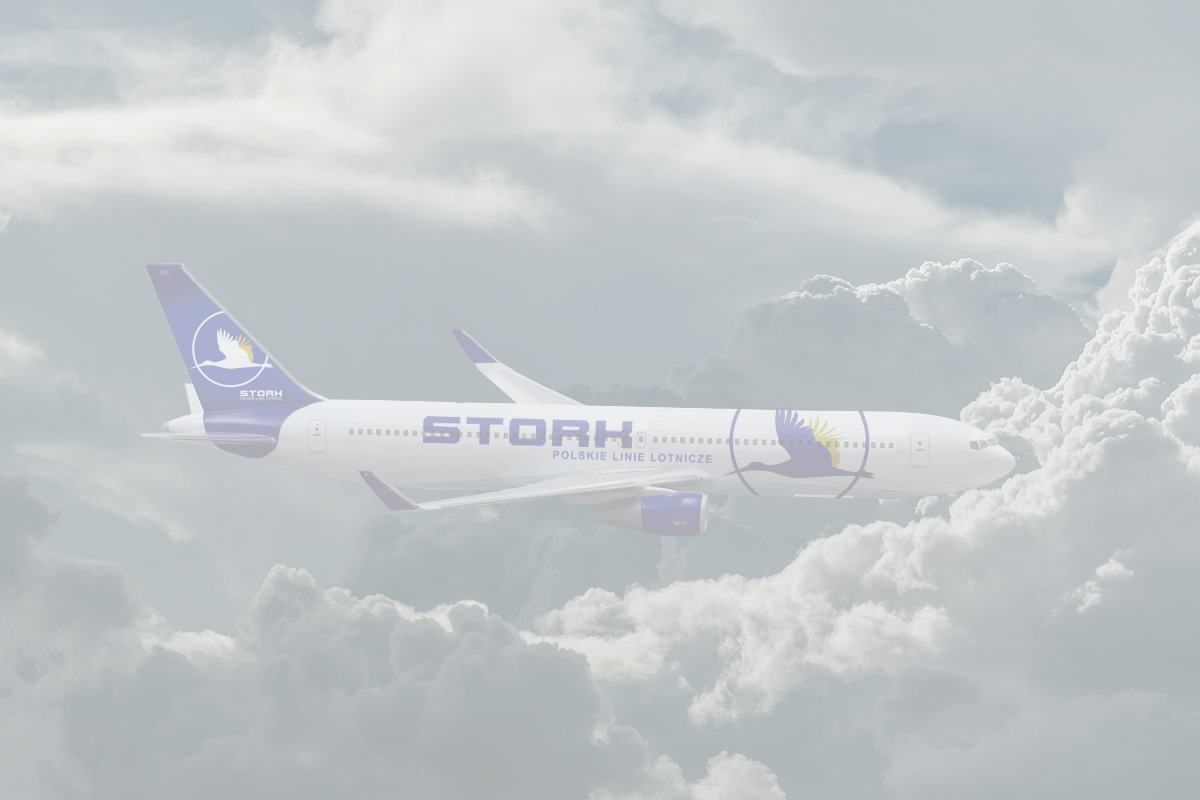
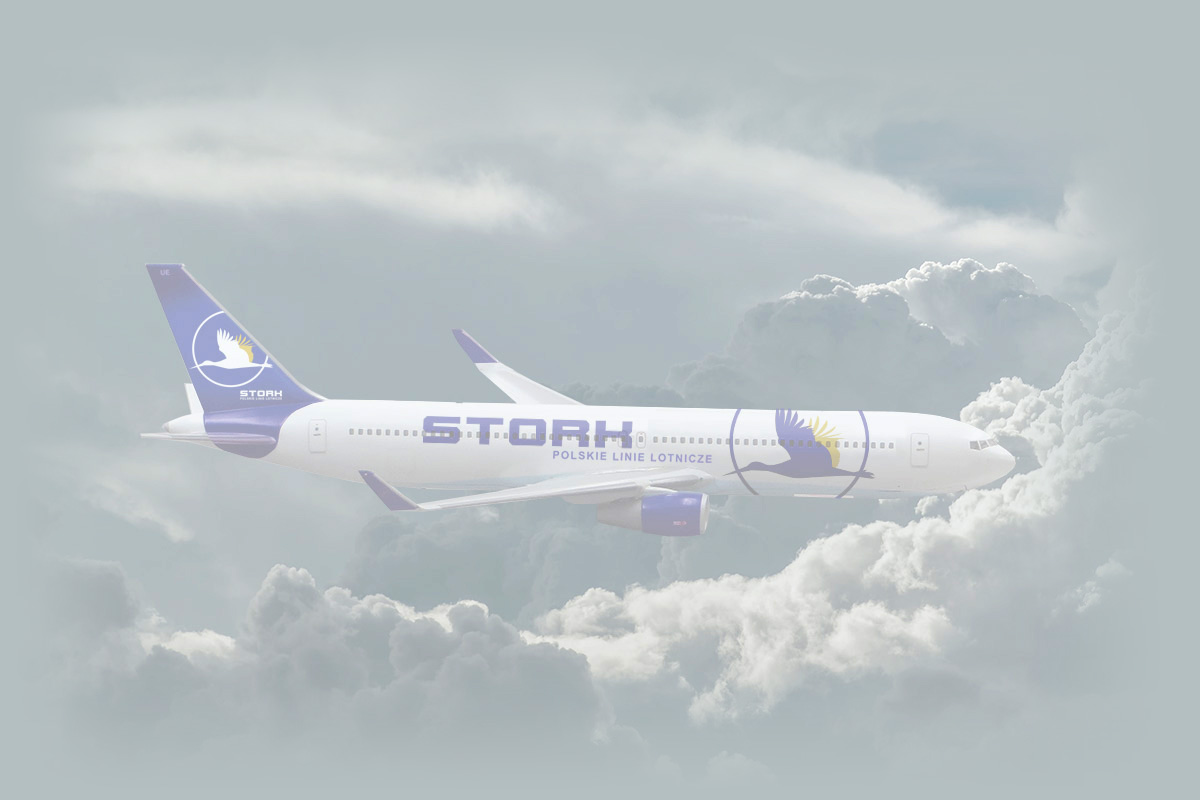
dodanie małych poprawek

diff --git a/css/common.min.css b/css/common.min.css
@@ -1,1 +1,1 @@
-html{scroll-behavior:smooth !important}body{font-family:'Montserrat', sans-serif}.btm-md-clr{padding:25px 0}.text-light{color:#fff !important}.text-dark{color:navy !important}.text-shadow-dark{text-shadow:2px 2px 15px navy}.text-shadow-light{text-shadow:2px 2px 15px #fff}.form-group{margin:0 0 1rem}.border-3{border:3px solid #fff !important}header{height:100vh;margin-top:-9px;background:#fff url(../images/samolot.svg) no-repeat center center/cover}.card-shadow{box-shadow:1px 1px 10px #000}.heading{position:absolute;top:70%;right:0;font-size:14px;letter-spacing:1px;background:#000;width:70%;cursor:pointer;opacity:.7;transition:all .5s}.heading:hover{opacity:1}@keyframes anim{0%{transform:translateX(-100px);opacity:0}100%{opacity:1}}.promotions{background:url(../images/promotion.jpg) no-repeat fixed;background-size:100% auto;height:auto;color:#ffffff;overflow:hidden;display:flex;flex-wrap:wrap;align-items:center;justify-content:center}.promo-card{position:relative;width:300px;height:450px;margin:1rem 50px}.promo-card .content{overflow:hidden;border-radius:20px;height:100%;background:navy !important}.promo-card .front .image img{display:block}.promo-card .front .title{position:absolute;bottom:0;left:0;right:0;text-align:right;background-image:linear-gradient(to bottom, transparent, rgba(0,0,0,0.7) 50%);padding:40px 20px 20px;font-size:2rem;border-radius:20px}.promo-card .front .author{font-size:0.8rem;opacity:0.6}.promo-card .front,.promo-card .back{overflow:hidden;position:absolute;top:0;left:0;bottom:0;right:0;backface-visibility:hidden;transition:transform 400ms}.promo-card .back .content{background:navy !important;text-align:center}.promo-card .back .title{font-size:2rem;margin-top:20%;font-weight:700;text-transform:uppercase}.promo-card .back .sub-title{font-size:0.8rem;letter-spacing:1px}.promo-card .back .info ul{list-style:none;text-align:left;margin:30px 20px}.promo-card .svg-inline--fa{color:#D4AA00}.promo-card .back .info ul li{margin:10px 0}.promo-card .back .info ul li i{margin-right:10px}.promo-card .front{transform:perspective(900px) rotateY(0deg)}.promo-card .back{transform:perspective(900px) rotateY(180deg)}.promo-card:hover .front{transform:perspective(900px) rotateY(-180deg)}.promo-card:hover .back{transform:perspective(900px) rotateY(0deg)}.banner{height:auto;padding:30vh 0 0 0}.banner-heading{animation-name:anim;animation-duration:2s}.banner-par{animation-duration:2s;animation-delay:.5s;animation-fill-mode:backwards}.airplane img{vertical-align:middle;border-style:none;width:100%;margin:1rem auto 2rem}.text-info{color:#D4AA00}.text-primary{color:#D4AA00}.svg-inline--fa{font-size:inherit;color:navy}.nav-button{background:navy}.nav-logo{max-width:6rem;height:auto}.nav-menu{padding:15px 30px;transition:all .7s;background:linear-gradient(rgba(255,255,255,0.8), #fff)}.menu-item{font-size:13px;letter-spacing:1px;color:navy;transition:color .5s}.btn-secondary{color:#fff;background-color:navy;border:none}.nav-active{color:navy}.nav-active:hover{color:#D4AA00}.navbar-expand-lg .navbar-nav .nav-link{padding-right:.5rem;padding-left:.5rem;color:navy}.line1,.line2,.line3{width:23px;height:3px;margin:5px;transition:all .4s}.change .line1{transform:rotate(-45deg) translate(-5px, 6px)}.change .line2{opacity:0}.change .line3{transform:rotate(45deg) translate(-5px, -6px)}.custom-navbar{padding:5px 30px;background:linear-gradient(rgba(255,255,255,0.8), #fff)}.calendar-box{width:40vw;border-radius:1rem;padding:2rem;margin:2rem auto;color:navy;background:rgba(255,255,255,0.8);box-shadow:0 0 1.5rem #ccc}.select-bar{transform:none;width:100%;height:2.5rem;border:2px solid navy;border-radius:5px}.button{text-transform:none;background:navy;color:#fff;width:100%;height:auto;padding:0.5rem 0;border-radius:5px;border:2px solid navy;font-weight:700}.table-dark{color:#fff;background-color:navy}.mission{background:navy}.white-bg{background:#fff;color:navy !important}.bg-dark{background:navy !important;color:#fff !important}.text-danger{color:#D4AA00 !important}.underline{width:150px;border:3px solid #D4AA00;margin:auto}.fromLeft{animation-name:fromLeft;animation-duration:3s}.fromRight{animation-name:fromRight;animation-duration:3s}.card{z-index:1;margin:15px 0;position:sticky;position:-webkit-sticky;top:8rem;display:flex;justify-content:center;align-items:center;background:rgba(255,255,255,0.8);box-shadow:0 0 6px #000}.card-wrapper{height:auto;width:100%;margin:auto;height:100%}@keyframes fromLeft{0%{transform:translateX(-120px);opacity:0}100%{transform:translateX(0);opacity:1}}@keyframes fromRight{0%{transform:translateX(30px);opacity:0}100%{transform:translateX(0);opacity:1}}.customers{background:navy;color:#fff}.icons{max-width:4rem;height:4rem}@media (min-width: 1024px) and (max-width: 1780px){header{padding:1rem 0;height:auto}.form-group{margin:0 2rem 1rem}.promotions{flex-wrap:nowrap}}@media (min-width: 768px) and (max-width: 1024px){header{padding:1rem 0;height:auto}.calendar-box{margin:0 25px;width:auto}.form-group{margin:0 4rem 1rem}.h1,.h2,.h3,.h4,.h5,.h6,h1,h2,h3,h4,h5,h6{margin-bottom:.5rem;font-size:1.5rem;font-family:inherit;font-weight:700;line-height:1.2;color:inherit}.display-3{font-size:3.5rem}.display-4{font-size:2.5rem}.promo-card{margin:1rem 1rem !important}.calculation-section{display:flex;flex-wrap:wrap;flex-direction:column-reverse}.calculation-section .col-2,.calculation-section .col-6{-ms-flex:0 0 100% !important;flex:0 0 100% !important;max-width:100% !important}.calculation-section .col-8{-ms-flex:0 0 80%;flex:0 0 80%;max-width:80%}.calculation-section .col-3{display:none}.row{width:100%;margin:0}.airplane{vertical-align:middle;border-style:none;width:100%;height:auto;margin-bottom:2rem}}@media (min-width: 320px) and (max-width: 768px){header{padding:1rem 0;height:auto}.h1,.h2,.h3,.h4,.h5,.h6,h1,h2,h3,h4,h5,h6{margin-bottom:.5rem;font-size:1.2rem;font-family:inherit;font-weight:700;line-height:1.2;color:inherit}.display-3{font-size:2.5rem}.display-4{font-size:1.5rem}.calendar-box{margin:0 25px;width:auto}.form-group{margin:0 0 1rem}.lead{font-size:1rem}.promotions{background:none}.p-5{padding:0 !important}.promo-card{position:relative;width:300px;height:450px;margin:1rem 0 1rem}.calculation-section{display:flex;flex-wrap:wrap;flex-direction:column-reverse}.calculation-section .col-2,.calculation-section .col-6{-ms-flex:0 0 100% !important;flex:0 0 100% !important;max-width:100% !important}.calculation-section .col-8{-ms-flex:0 0 80%;flex:0 0 80%;max-width:80%}.calculation-section .col-3{display:none}.row{width:100%;margin:0}.col,.col-1,.col-10,.col-11,.col-12,.col-2,.col-3,.col-4,.col-5,.col-6,.col-7,.col-8,.col-9,.col-auto,.col-lg,.col-lg-1,.col-lg-10,.col-lg-11,.col-lg-12,.col-lg-2,.col-lg-3,.col-lg-4,.col-lg-5,.col-lg-6,.col-lg-7,.col-lg-8,.col-lg-9,.col-lg-auto,.col-md,.col-md-1,.col-md-10,.col-md-11,.col-md-12,.col-md-2,.col-md-3,.col-md-4,.col-md-5,.col-md-6,.col-md-7,.col-md-8,.col-md-9,.col-md-auto,.col-sm,.col-sm-1,.col-sm-10,.col-sm-11,.col-sm-12,.col-sm-2,.col-sm-3,.col-sm-4,.col-sm-5,.col-sm-6,.col-sm-7,.col-sm-8,.col-sm-9,.col-sm-auto,.col-xl,.col-xl-1,.col-xl-10,.col-xl-11,.col-xl-12,.col-xl-2,.col-xl-3,.col-xl-4,.col-xl-5,.col-xl-6,.col-xl-7,.col-xl-8,.col-xl-9,.col-xl-auto{position:relative;-ms-flex:0 0 100% !important;flex:0 0 100% !important;max-width:100% !important;width:100%;min-height:1px;padding-right:15px;padding-left:15px}.airplane img{rotate:90deg;vertical-align:middle;border-style:none;width:100%;height:500px;margin:1rem auto 2rem}}
+html{scroll-behavior:smooth !important}body{font-family:'Montserrat', sans-serif}.btm-md-clr{padding:25px 0}.text-light{color:#fff !important}.text-dark{color:navy !important}.text-shadow-dark{text-shadow:2px 2px 15px navy}.text-shadow-light{text-shadow:2px 2px 15px #fff}.form-group{margin:0 0 1rem}.border-3{border:3px solid #fff !important}header{height:100vh;margin-top:-9px;background:#fff url(../images/samolot.svg) no-repeat center center/cover}.card-shadow{box-shadow:1px 1px 10px #000}.heading{position:absolute;top:70%;right:0;font-size:14px;letter-spacing:1px;background:#000;width:70%;cursor:pointer;opacity:.7;transition:all .5s}.heading:hover{opacity:1}@keyframes anim{0%{transform:translateX(-100px);opacity:0}100%{opacity:1}}.promotions{background:#b4bfc1 url(../images/promotion.jpg) no-repeat center fixed;background-size:100% auto;height:auto;color:#ffffff;overflow:hidden;display:flex;flex-wrap:wrap;align-items:center;justify-content:center}.promo-card{position:relative;width:300px;height:450px;margin:1rem 50px}.promo-card .content{overflow:hidden;border-radius:20px;height:100%;background:navy !important}.promo-card .front .image img{display:block}.promo-card .front .title{position:absolute;bottom:0;left:0;right:0;text-align:right;background-image:linear-gradient(to bottom, transparent, rgba(0,0,0,0.7) 50%);padding:40px 20px 20px;font-size:2rem;border-radius:20px}.promo-card .front .author{font-size:0.8rem;opacity:0.6}.promo-card .front,.promo-card .back{overflow:hidden;position:absolute;top:0;left:0;bottom:0;right:0;backface-visibility:hidden;transition:transform 400ms}.promo-card .back .content{background:navy !important;text-align:center}.promo-card .back .title{font-size:2rem;margin-top:20%;font-weight:700;text-transform:uppercase}.promo-card .back .sub-title{font-size:0.8rem;letter-spacing:1px}.promo-card .back .info ul{list-style:none;text-align:left;margin:30px 20px}.promo-card .svg-inline--fa{color:#D4AA00}.promo-card .back .info ul li{margin:10px 0}.promo-card .back .info ul li i{margin-right:10px}.promo-card .front{transform:perspective(900px) rotateY(0deg)}.promo-card .back{transform:perspective(900px) rotateY(180deg)}.promo-card:hover .front{transform:perspective(900px) rotateY(-180deg)}.promo-card:hover .back{transform:perspective(900px) rotateY(0deg)}.banner{height:auto;padding:30vh 0 0 0}.banner-heading{animation-name:anim;animation-duration:2s}.banner-par{animation-duration:2s;animation-delay:.5s;animation-fill-mode:backwards}.airplane img{vertical-align:middle;border-style:none;width:100%;margin:1rem auto 2rem}.image-slide-airplane{width:100%;height:25rem;background:#416ca0 url(../images/image-slide-airplane.jpg) no-repeat center fixed}.text-info{color:#D4AA00}.text-primary{color:#D4AA00}.svg-inline--fa{font-size:inherit;color:navy}.nav-button{background:navy}.nav-logo{max-width:6rem;height:auto}.nav-menu{padding:15px 30px;transition:all .7s;background:linear-gradient(rgba(255,255,255,0.8), #fff)}.menu-item{font-size:13px;letter-spacing:1px;color:navy;transition:color .5s}.btn-secondary{color:#fff;background-color:navy;border:none}.nav-active{color:navy}.nav-active:hover{color:#D4AA00}.navbar-expand-lg .navbar-nav .nav-link{padding-right:.5rem;padding-left:.5rem;color:navy}.line1,.line2,.line3{width:23px;height:3px;margin:5px;transition:all .4s}.change .line1{transform:rotate(-45deg) translate(-5px, 6px)}.change .line2{opacity:0}.change .line3{transform:rotate(45deg) translate(-5px, -6px)}.custom-navbar{padding:5px 30px;background:linear-gradient(rgba(255,255,255,0.8), #fff)}.calendar-box{width:40vw;border-radius:1rem;padding:2rem;margin:2rem auto;color:navy;background:rgba(255,255,255,0.8);box-shadow:0 0 1.5rem #ccc}.select-bar{transform:none;width:100%;height:2.5rem;border:2px solid navy;border-radius:5px}.button{text-transform:none;background:navy;color:#fff;width:100%;height:auto;padding:0.5rem 0;border-radius:5px;border:2px solid navy;font-weight:700}.table-dark{color:#fff;background-color:navy}.mission{background:navy}.white-bg{background:#fff;color:navy !important}.bg-dark{background:navy !important;color:#fff !important}.text-danger{color:#D4AA00 !important}.underline{width:150px;border:3px solid #D4AA00;margin:auto}.fromLeft{animation-name:fromLeft;animation-duration:3s}.fromRight{animation-name:fromRight;animation-duration:3s}.card{z-index:1;margin:15px 0;position:sticky;position:-webkit-sticky;top:8rem;display:flex;justify-content:center;align-items:center;background:rgba(255,255,255,0.8);box-shadow:0 0 6px #000}.card-wrapper{height:auto;width:100%;margin:auto;height:100%}@keyframes fromLeft{0%{transform:translateX(-120px);opacity:0}100%{transform:translateX(0);opacity:1}}@keyframes fromRight{0%{transform:translateX(30px);opacity:0}100%{transform:translateX(0);opacity:1}}.customers{background:navy;color:#fff}.icons{max-width:4rem;height:4rem}@media (min-width: 1024px) and (max-width: 1780px){header{padding:1rem 0;height:auto}.form-group{margin:0 2rem 1rem}.promotions{flex-wrap:nowrap}}@media (min-width: 768px) and (max-width: 1024px){header{padding:1rem 0;height:auto}.calendar-box{margin:0 25px;width:auto}.form-group{margin:0 4rem 1rem}.h1,.h2,.h3,.h4,.h5,.h6,h1,h2,h3,h4,h5,h6{margin-bottom:.5rem;font-size:1.5rem;font-family:inherit;font-weight:700;line-height:1.2;color:inherit}.display-3{font-size:3.5rem}.display-4{font-size:2.5rem}.promo-card{margin:1rem 1rem !important}.calculation-section{display:flex;flex-wrap:wrap;flex-direction:column-reverse}.calculation-section .col-2,.calculation-section .col-6{-ms-flex:0 0 100% !important;flex:0 0 100% !important;max-width:100% !important}.calculation-section .col-8{-ms-flex:0 0 80%;flex:0 0 80%;max-width:80%}.calculation-section .col-3{display:none}.row{width:100%;margin:0}.airplane{vertical-align:middle;border-style:none;width:100%;height:auto;margin-bottom:2rem}}@media (min-width: 320px) and (max-width: 768px){header{padding:1rem 0;height:auto}.h1,.h2,.h3,.h4,.h5,.h6,h1,h2,h3,h4,h5,h6{margin-bottom:.5rem;font-size:1.2rem;font-family:inherit;font-weight:700;line-height:1.2;color:inherit}.display-3{font-size:2.5rem}.display-4{font-size:1.5rem}.calendar-box{margin:0 25px;width:auto}.form-group{margin:0 0 1rem}.lead{font-size:1rem}.promotions{background:none}.p-5{padding:0 !important}.promo-card{position:relative;width:300px;height:450px;margin:1rem 0 1rem}.calculation-section{display:flex;flex-wrap:wrap;flex-direction:column-reverse}.calculation-section .col-2,.calculation-section .col-6{-ms-flex:0 0 100% !important;flex:0 0 100% !important;max-width:100% !important}.calculation-section .col-8{-ms-flex:0 0 80%;flex:0 0 80%;max-width:80%}.calculation-section .col-3{display:none}.row{width:100%;margin:0}.col,.col-1,.col-10,.col-11,.col-12,.col-2,.col-3,.col-4,.col-5,.col-6,.col-7,.col-8,.col-9,.col-auto,.col-lg,.col-lg-1,.col-lg-10,.col-lg-11,.col-lg-12,.col-lg-2,.col-lg-3,.col-lg-4,.col-lg-5,.col-lg-6,.col-lg-7,.col-lg-8,.col-lg-9,.col-lg-auto,.col-md,.col-md-1,.col-md-10,.col-md-11,.col-md-12,.col-md-2,.col-md-3,.col-md-4,.col-md-5,.col-md-6,.col-md-7,.col-md-8,.col-md-9,.col-md-auto,.col-sm,.col-sm-1,.col-sm-10,.col-sm-11,.col-sm-12,.col-sm-2,.col-sm-3,.col-sm-4,.col-sm-5,.col-sm-6,.col-sm-7,.col-sm-8,.col-sm-9,.col-sm-auto,.col-xl,.col-xl-1,.col-xl-10,.col-xl-11,.col-xl-12,.col-xl-2,.col-xl-3,.col-xl-4,.col-xl-5,.col-xl-6,.col-xl-7,.col-xl-8,.col-xl-9,.col-xl-auto{position:relative;-ms-flex:0 0 100% !important;flex:0 0 100% !important;max-width:100% !important;width:100%;min-height:1px;padding-right:15px;padding-left:15px}.airplane img{rotate:90deg;vertical-align:middle;border-style:none;width:100%;height:500px;margin:1rem auto 2rem}}

diff --git a/index.html b/index.html
@@ -330,7 +330,7 @@
       <!-- end of title -->
       <div class="row my-5" id="#fourgit">
         <div class="col-md-4 text-center">
-          <img src="images/suitcase-rolling-solid.svg" class="icons">
+          <img src="images/suitcase-rolling-solid.svg" class="icons mb-4">
           <h1 class="text-white mb-3">Bagaż Stork Airlines</h1>
           <div class="underline mb-4"></div>
           <p class="text-muted">
@@ -341,7 +341,7 @@
           </p>
         </div>
         <div class="col-md-4 text-center">
-          <img src="images/gem-regular.svg" class="icons">
+          <img src="images/gem-regular.svg" class="icons mb-4">
           <h1 class="text-white mb-3">Klasy rezerwacyjne</h1>
           <div class="underline mb-4"></div>
           <p class="text-muted">
@@ -352,13 +352,13 @@
           </p>
         </div>
         <div class="col-md-4 text-center">
-          <img src="images/plane-solid.svg" class="icons">
+          <img src="images/plane-solid.svg" class="icons mb-4">
           <h1 class="text-white mb-3">Flota</h1>
           <div class="underline mb-4"></div>
           <p class="text-muted">
             Flota Polskich Linii Lotniczych Stork Airlines liczy łącznie 3 samoloty. Do lotów krajowych oraz
             średniodystansowych wykorzystywane są nowoczesne maszyny typu:
-            Boeing 787 Dreamliner oraz 737-400 lub Boeing 737-800.
+            Boeing 787 Dreamliner oraz Embraer lub Boeing 737-800.
           </p>
         </div>
       </div>
@@ -386,6 +386,12 @@
     </div>
   </section>
   <!-- end of mission -->
+
+  <!-- image slide airplane -->
+  <section class="image-slide-airplane">
+    <div></div>
+  </section>
+  <!-- image slide airplane -->
 
   <!-- customers -->
   <section class="p-5 customers" id="four">

diff --git a/css/common.scss b/css/common.scss
@@ -50,7 +50,7 @@ header { height: 100vh; margin-top: -9px; background: $ff-color url(../images/sa
 /* promotions */
 
 .promotions {
-  background: url(../images/promotion.jpg)no-repeat fixed;
+  background: #b4bfc1 url(../images/promotion.jpg)no-repeat center fixed;
   background-size: 100% auto;
   height: auto;
   color: #ffffff;
@@ -90,6 +90,9 @@ header { height: 100vh; margin-top: -9px; background: $ff-color url(../images/sa
 
 /* airplane SVG */
 .airplane img { vertical-align: middle; border-style: none; width: 100%; margin: 1rem auto 2rem; }
+
+/* image slide airplane */
+.image-slide-airplane { width: 100%; height: 25rem; background: #416ca0 url(../images/image-slide-airplane.jpg)no-repeat center fixed; }
 
 /* navbar */
 .text-info { color: $second-color; } 

diff --git a/css/common.css b/css/common.css
@@ -78,7 +78,7 @@ header {
 
 /* promotions */
 .promotions {
-  background: url(../images/promotion.jpg) no-repeat fixed;
+  background: #b4bfc1 url(../images/promotion.jpg) no-repeat center fixed;
   background-size: 100% auto;
   height: auto;
   color: #ffffff;
@@ -211,6 +211,13 @@ header {
   border-style: none;
   width: 100%;
   margin: 1rem auto 2rem;
+}
+
+/* image slide airplane */
+.image-slide-airplane {
+  width: 100%;
+  height: 25rem;
+  background: #416ca0 url(../images/image-slide-airplane.jpg) no-repeat center fixed;
 }
 
 /* navbar */
